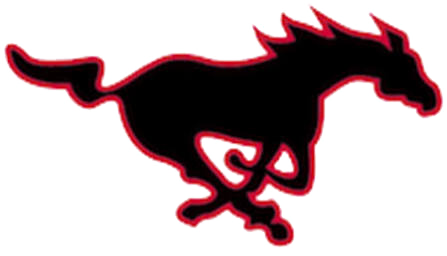
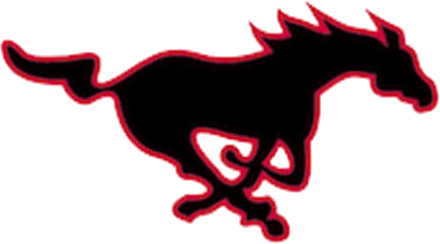
Move mustang beside the Venmo QR code at the same size
Claude-Session: https://claude.ai/code/session_01SEWv7bZgoNhD2DPPnzBxrU

Changed region(s): [[0.0, 0.0, 1.0, 1.0]]

diff --git a/index.html b/index.html
@@ -38,7 +38,7 @@ h2{color:#ffcf3f;font-size:1.4rem}
 .periods{display:flex;justify-content:center;gap:28px;font-family:Orbitron;font-size:.8rem;flex-wrap:wrap}.periods b{display:block;font-size:1.6rem;color:#ffcf3f}
 .progress-track{height:14px;background:#222;border:2px solid #444;margin:8px 0}.progress-fill{height:100%;background:repeating-linear-gradient(90deg,#ff2a44 0 10px,#C8102E 10px 14px)}.progress-nums,.progress-meta{display:none}
 .nav{display:flex;justify-content:center;gap:4px;flex-wrap:wrap;margin-top:18px}.nav a{font-family:Orbitron;font-size:.7rem;padding:8px 12px;background:#222;text-decoration:none;border-radius:4px}.nav a:hover{background:#C8102E}
-.give-head{display:flex;align-items:center;gap:12px}.give-head img{height:2.2em;width:auto}.donate{display:grid;grid-template-columns:1fr 1fr;gap:32px;align-items:start}
+.qr{align-items:center;flex-wrap:nowrap}.qr-mascot{flex:1 1 140px;min-width:0;max-width:220px;width:100%;height:auto}.donate{display:grid;grid-template-columns:1fr 1fr;gap:32px;align-items:start}
 .amounts{display:grid;grid-template-columns:repeat(4,1fr);gap:8px;margin:16px 0}.amounts-btn{font-family:Orbitron;text-align:center;background:#C8102E;padding:14px 0;text-decoration:none;border-radius:6px;border-bottom:4px solid #7a0a1c}
 .qr-card{background:#0a0a0a;padding:12px;border:2px solid #333;border-radius:8px}
 .uses{list-style:none;padding:0}.uses li{display:flex;gap:14px;padding:12px;background:#222;margin-bottom:8px;border-radius:6px}.uses p{margin:0;opacity:.7;font-size:.9rem}
@@ -70,12 +70,13 @@ h2{color:#ffcf3f;font-size:1.4rem}
  <p class="fund-error" data-fund="error" hidden>Fundraiser totals could not be loaded. Check donations.yml.</p>
  <nav class="nav"><a href="#sponsors">Sponsors</a><a href="#coaches">Coaches</a><a href="#photos">Photos</a><a href="#schedule">Schedule</a><a href="#supporters">Supporters</a></nav>
 </section>
-<section class="wrap"><div class="donate"><div><h2>PICK YOUR DONATION</h2><div class="amounts"><a class="amounts-btn" href="#donate">$25</a><a class="amounts-btn" href="#donate">$50</a><a class="amounts-btn" href="#donate">$100</a><a class="amounts-btn" href="#donate">$250</a><a class="amounts-btn" href="#donate">$500</a><a class="amounts-btn" href="#donate">$1,000</a><a class="amounts-btn" href="#donate">Other</a></div><ul class="uses"><li><div><strong>Tournament fees</strong><p>Entry into invitationals and travel tournaments.</p></div></li><li><div><strong>Uniforms & gear</strong><p>Jerseys, warmups and knee pads for every player.</p></div></li><li><div><strong>Equipment</strong><p>New match balls, ball carts and training tools.</p></div></li></ul></div><div><h2 class="give-head">Scan to give <img src="assets/mustang-horse.png" alt="Mustang"></h2>
+<section class="wrap"><div class="donate"><div><h2>PICK YOUR DONATION</h2><div class="amounts"><a class="amounts-btn" href="#donate">$25</a><a class="amounts-btn" href="#donate">$50</a><a class="amounts-btn" href="#donate">$100</a><a class="amounts-btn" href="#donate">$250</a><a class="amounts-btn" href="#donate">$500</a><a class="amounts-btn" href="#donate">$1,000</a><a class="amounts-btn" href="#donate">Other</a></div><ul class="uses"><li><div><strong>Tournament fees</strong><p>Entry into invitationals and travel tournaments.</p></div></li><li><div><strong>Uniforms & gear</strong><p>Jerseys, warmups and knee pads for every player.</p></div></li><li><div><strong>Equipment</strong><p>New match balls, ball carts and training tools.</p></div></li></ul></div><div><h2>Scan to give</h2>
 <div class="qr">
   <figure class="qr-card">
     <img src="assets/qr-venmo.svg" alt="Venmo QR code (placeholder)">
     <figcaption><strong>Venmo</strong><span>@MV-Boys-Volleyball</span></figcaption>
   </figure>
+  <img class="qr-mascot" src="assets/mustang-horse.png" alt="Monte Vista Mustang">
 </div>
 <p class="qr-note">Please add “Monte Vista Volleyball Program” and your name in the payment note.</p></div></div></section>
 <section class="wrap" id="sponsors"><h2>Sponsors</h2><div class="tiers"><div class="tiers-card tiers-platinum"><h3>Platinum</h3><div class="tiers-amt">$1,000+</div><p>Large logo on site and banner at home matches, plus a team-signed ball.</p></div><div class="tiers-card tiers-gold"><h3>Gold</h3><div class="tiers-amt">$500+</div><p>Medium logo on site and a shout-out at home matches.</p></div><div class="tiers-card tiers-silver"><h3>Silver</h3><div class="tiers-amt">$250+</div><p>Logo on the sponsor wall of this site.</p></div><div class="tiers-card tiers-mustang"><h3>Mustang Family</h3><div class="tiers-amt">$100+</div><p>Name listed on the supporter wall.</p></div></div><div class="sponsors"><img src="assets/sponsors/sponsor-1.svg" alt="Sponsor logo placeholder"><img src="assets/sponsors/sponsor-2.svg" alt="Sponsor logo placeholder"><img src="assets/sponsors/sponsor-3.svg" alt="Sponsor logo placeholder"><img src="assets/sponsors/sponsor-4.svg" alt="Sponsor logo placeholder"><img src="assets/sponsors/sponsor-5.svg" alt="Sponsor logo placeholder"><img src="assets/sponsors/sponsor-6.svg" alt="Sponsor logo placeholder"><img src="assets/sponsors/sponsor-7.svg" alt="Sponsor logo placeholder"><img src="assets/sponsors/sponsor-8.svg" alt="Sponsor logo placeholder"></div></section>

diff --git a/tools/build_site.py b/tools/build_site.py
@@ -24,7 +24,7 @@ h2{color:#ffcf3f;font-size:1.4rem}
 .periods{display:flex;justify-content:center;gap:28px;font-family:Orbitron;font-size:.8rem;flex-wrap:wrap}.periods b{display:block;font-size:1.6rem;color:#ffcf3f}
 .progress-track{height:14px;background:#222;border:2px solid #444;margin:8px 0}.progress-fill{height:100%;background:repeating-linear-gradient(90deg,#ff2a44 0 10px,#C8102E 10px 14px)}.progress-nums,.progress-meta{display:none}
 .nav{display:flex;justify-content:center;gap:4px;flex-wrap:wrap;margin-top:18px}.nav a{font-family:Orbitron;font-size:.7rem;padding:8px 12px;background:#222;text-decoration:none;border-radius:4px}.nav a:hover{background:#C8102E}
-.give-head{display:flex;align-items:center;gap:12px}.give-head img{height:2.2em;width:auto}.donate{display:grid;grid-template-columns:1fr 1fr;gap:32px;align-items:start}
+.qr{align-items:center;flex-wrap:nowrap}.qr-mascot{flex:1 1 140px;min-width:0;max-width:220px;width:100%;height:auto}.donate{display:grid;grid-template-columns:1fr 1fr;gap:32px;align-items:start}
 .amounts{display:grid;grid-template-columns:repeat(4,1fr);gap:8px;margin:16px 0}.amounts-btn{font-family:Orbitron;text-align:center;background:#C8102E;padding:14px 0;text-decoration:none;border-radius:6px;border-bottom:4px solid #7a0a1c}
 .qr-card{background:#0a0a0a;padding:12px;border:2px solid #333;border-radius:8px}
 .uses{list-style:none;padding:0}.uses li{display:flex;gap:14px;padding:12px;background:#222;margin-bottom:8px;border-radius:6px}.uses p{margin:0;opacity:.7;font-size:.9rem}
@@ -49,7 +49,7 @@ h2{color:#ffcf3f;font-size:1.4rem}
  <p class="fund-error" data-fund="error" hidden>Fundraiser totals could not be loaded. Check donations.yml.</p>
  {nav(items=("Sponsors","Coaches","Photos","Schedule","Supporters"))}
 </section>
-<section class="wrap"><div class="donate"><div><h2>PICK YOUR DONATION</h2>{amounts()}{uses()}</div><div><h2 class="give-head">Scan to give <img src="{HORSE}" alt="Mustang"></h2>{qr_pair()}</div></div></section>
+<section class="wrap"><div class="donate"><div><h2>PICK YOUR DONATION</h2>{amounts()}{uses()}</div><div><h2>Scan to give</h2>{qr_pair()}</div></div></section>
 <section class="wrap" id="sponsors"><h2>Sponsors</h2>{tiers()}{sponsors()}</section>
 <section class="wrap" id="coaches"><h2>Coaching staff</h2>{coaches()}</section>
 <section class="wrap" id="photos"><h2>Replay</h2>{photos()}</section>

diff --git a/tools/fragments.py b/tools/fragments.py
@@ -23,6 +23,7 @@ def qr_pair(cls="qr"):
     <img src="{QR_VENMO}" alt="Venmo QR code (placeholder)">
     <figcaption><strong>Venmo</strong><span>{VENMO}</span></figcaption>
   </figure>
+  <img class="{cls}-mascot" src="{HORSE}" alt="Monte Vista Mustang">
 </div>
 <p class="{cls}-note">Please add “Monte Vista Volleyball Program” and your name in the payment note.</p>"""
 
